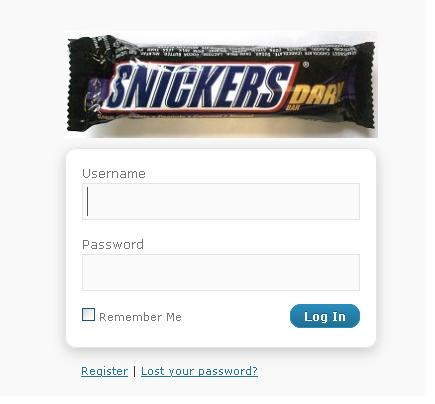
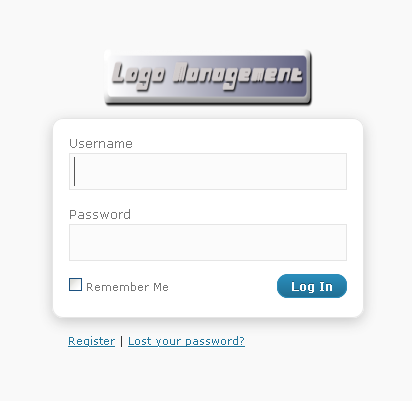
Adding new version 1.0
git-svn-id: https://plugins.svn.wordpress.org/logo-management/trunk@316083 b8457f37-d9ea-0310-8a92-e5e31aec5664

diff --git a/logo-management.php b/logo-management.php
@@ -3,12 +3,11 @@
 Plugin Name:  Logo Management
 Plugin URI: http://wordpress.org/extend/plugins/logo-management/
 Description: Replace WordPress default login/register page logo with custom one.
-Version: 1.0
+Version: 1.1
 Author: Rajasekaran M
 Author URI: http://wordpress.org/extend/plugins/logo-management/
 */
 
-define( 'LM_VERSION' , '1.0' );
 define( 'LM_DIR' , dirname( str_replace( '\\' , '/' , __FILE__ ) ) . "/" ) ;
 define( 'LM_FILE' , basename( LM_DIR ) );
 
@@ -33,32 +32,54 @@ register_deactivation_hook( __FILE__ , 'lm_deactivation' );
 
 /* Add options upon plugin activation */
 function lm_activation() {
-	add_option( 'lm_logos' , array('lm_logo.png') );
-	add_option( 'lm_logo_login', 'Yes' );
-	add_option( 'lm_logo_admin', 'Yes' );	
-	add_option( 'lm_logo', 'lm_logo.png');
-	add_option( 'lm_logo_path', LM_LOGO_URL . 'lm_logo.png');
+	$lm_settings = array( 
+						'lm_logo' 	=> 'lm_logo.png',
+						'lm_custom' => 'Yes',
+						'lm_width' 	=> '200',
+						'lm_height' => '60',
+						'lm_login'	=> 'Yes',
+						'lm_admin'	=> 'Yes',
+						'lm_path'	=> LM_URL . 'img/lm_logo.png',
+						'lm_default_logo'	=> LM_URL . 'img/lm_logo.png'
+						);
+	add_option( 'lm_settings', $lm_settings );
+	if( !get_option( 'lm_logos' ) )
+		add_option( 'lm_logos' , array('lm_logo.png') );
 }
 
 /* Delete options upon plugin deactivation */
 function lm_deactivation() {
-	delete_option( 'lm_logos' );
-	delete_option( 'lm_logo_login' );
-	delete_option( 'lm_logo_admin' );
-	delete_option( 'lm_logo' );
-	delete_option( 'lm_logo_path' );
+	delete_option( 'lm_settings' );
+	//delete_option( 'lm_logos' );
 }
 
-add_action ( 'admin_menu', 'lm_menus' );
+$lm = get_option( 'lm_settings' );
 
-function lm_menus() {
-	add_options_page( __('Logo Management', 'lm' ), __('Logo Management', 'lm' ) , 10, 'logo-management', 'logo_management');
+if ( !empty ( $_POST['lm_save_changes'] ) ) {
+	if( !empty($_POST['lm_custom']) ) $lm['lm_custom'] = $_POST['lm_custom'];
+	if( $_POST['lm_custom'] == 'Yes' ) {
+		if( !empty($_POST['lm_width']) ) $lm['lm_width'] = $_POST['lm_width'];
+		if( !empty($_POST['lm_height']) ) $lm['lm_height'] = $_POST['lm_height'];
+	}
+	if( !empty($_POST['lm_login']) ) $lm['lm_login'] = $_POST['lm_login'];
+	if( !empty($_POST['lm_admin']) ) $lm['lm_admin'] = $_POST['lm_admin'];
+	if( !empty($_POST['selected_logo']) ) {
+		$lm['lm_logo'] = $_POST['selected_logo'];
+		$lm['lm_path'] = LM_LOGO_URL . $_POST['selected_logo'];
+	}
+	update_option( 'lm_settings' , $lm );
 }
 
 if( !empty( $_FILES['lm_logo'] ) ) {
+	//echo "<pre>"; print_r($lm); echo "</pre>"; 
 	$handle = new upload($_FILES['lm_logo']);
   	if ($handle->uploaded) {
-      	$handle->process( LM_LOGO_DIR );
+  		if( $_POST['lm_custom'] == 'Yes' ) {
+  			$handle->image_resize = true;
+  			$handle->image_x = $lm['lm_width'];
+  			$handle->image_y = $lm['lm_height'];
+  		}
+  		$handle->process( LM_LOGO_DIR );
       	if ($handle->processed) {
       		$logos = get_option( 'lm_logos' );
 			array_push($logos, $handle->file_dst_name );
@@ -71,18 +92,13 @@ if( !empty( $_FILES['lm_logo'] ) ) {
   	}
 }
 
-if ( !empty ( $_POST['lm_save_changes'] ) ) {
-	update_option( 'lm_logo_login' , $_POST['lm_login'] );
-	update_option( 'lm_logo_admin' , $_POST['lm_admin'] );
-	update_option( 'lm_logo' , $_POST['selected_logo'] );
-	update_option( 'lm_logo_path' , LM_LOGO_URL . $_POST['selected_logo'] );
-}
-
 //add logo to admin if "yes" selected
-if( get_option( 'lm_logo_admin' ) == "Yes" ) {
+if( $lm['lm_admin'] == "Yes" ) { 
 	if ( is_admin() ) {
 		add_action( 'admin_head', 'lm_admin_include' );
-		function lm_admin_include() { ?>
+		function lm_admin_include() { 
+			$lm = get_option( 'lm_settings' );			
+			?>
 			<style>
 				#header-logo {
 					display: none;
@@ -106,7 +122,7 @@ if( get_option( 'lm_logo_admin' ) == "Yes" ) {
 				var myBody = document.getElementById("wphead").getElementsByTagName("a")[0];
 				myBody.innerHTML = "";
 				var img = document.createElement("img");
-				img.setAttribute("src","<?php echo get_option('lm_logo_path'); ?>");
+				img.setAttribute("src","<?php echo $lm['lm_path']; ?>");
 				img.setAttribute("id", "LM_Logo");				
 				myBody.appendChild(img);				
 				myBody.style.display = "block";
@@ -120,9 +136,11 @@ if( get_option( 'lm_logo_admin' ) == "Yes" ) {
 }
 
 //add logo to login if "yes" is selected
-if( get_option( 'lm_logo_login' ) == "Yes" ) {
+if( $lm['lm_login'] == "Yes" ) {
 	add_action( 'login_head', 'lm_login_include' );
-	function lm_login_include() { ?>
+	function lm_login_include() {
+		$lm = get_option( 'lm_settings' ); 
+		?>
 		<style>
 			#LM_Logo {
 				padding: 0 0 10px 7px;
@@ -131,6 +149,7 @@ if( get_option( 'lm_logo_login' ) == "Yes" ) {
 			}
 			#login h1 {
 				display: none;
+				text-align:center;
 			}
 		</style>
 		<script type="text/javascript">
@@ -140,7 +159,7 @@ if( get_option( 'lm_logo_login' ) == "Yes" ) {
 				var myBody = document.getElementById("login").getElementsByTagName("h1")[0];
 				myBody.innerHTML = "";
 				var img = document.createElement("img");
-				img.setAttribute("src","<?php echo get_option('lm_logo_path'); ?>");
+				img.setAttribute("src","<?php echo $lm['lm_path']; ?>");
 				img.setAttribute("id", "LM_Logo");				
 				myBody.appendChild(img);				
 				myBody.style.display = "block";
@@ -152,13 +171,34 @@ if( get_option( 'lm_logo_login' ) == "Yes" ) {
 	}
 }
 
+add_action ( 'admin_menu', 'lm_menus' );
+
+function lm_menus() {
+	add_options_page( __('Logo Management', 'lm' ), __('Logo Management', 'lm' ) , 10, 'logo-management', 'logo_management');
+}
+
 function logo_management() {
+	$lm = get_option( 'lm_settings' );
 	?>
 	<script type="text/javascript" src="<?php echo LM_URL; ?>js/jquery-1.3.2.js"></script>
 	<script type="text/javascript" src="<?php echo LM_URL; ?>js/thickbox-compressed.js"></script>
 	<link rel="stylesheet" href="<?php echo LM_URL; ?>css/thickbox.css" type="text/css" />
 	<link rel="stylesheet" href="<?php echo LM_URL; ?>css/lm-styles.css" type="text/css" />
 	<script type="text/javascript">
+	$(document).ready(function() {
+	    $("#lm_width,#lm_height").keydown(function(event) {
+	        // Allow only backspace and delete
+	        if ( event.keyCode == 46 || event.keyCode == 8 ) {
+	                // let it happen, don't do anything
+	        }
+	        else {
+	                // Ensure that it is a number and stop the keypress
+	                if (event.keyCode < 48 || event.keyCode > 57 ) {
+	                        event.preventDefault(); 
+	                }       
+	        }
+	    });
+	});		
 	function delete_logo(val) {
 		if( confirm('<?php echo __( "Are you sure want to delete this logo?" , 'lm' ); ?>') ) {
 			$.post("<?php echo get_option('siteurl'); ?>/wp-admin/admin-ajax.php", {action:"del_logo", val: val, "cookie": encodeURIComponent(document.cookie)}, function(str) {
@@ -169,65 +209,112 @@ function logo_management() {
 		}
 	}
 	function lm_validation() {
+		if( $('#lm_logo_type').val() == 'Custom' ) {
+			if( $('#lm_width').val() == '' ) {
+				alert('<?php echo __( 'Please enter max width.', 'lm' ); ?>');
+				$('#lm_width').focus();
+				return false;
+			}
+			if( $('#lm_height').val() == '' ) {
+				alert('<?php echo __( 'Please enter max height.', 'lm' ); ?>');
+				$('#lm_height').focus();
+				return false;
+			}
+		}
 		if( $('#lm_logo').val() != '' ) {
 			var ext = $('#lm_logo').val().split('.').pop().toLowerCase();
 			var allow = new Array('gif','png','jpg','jpeg');
 			if(jQuery.inArray(ext, allow) == -1) {
 				alert('<?php echo __( 'Please upload .jpg or .jpeg or .png or .gif files only.', 'lm' ); ?>');
 				return false;
-			} else {
-				return true;
 			}
 		}
+		return true;
 	}
 	</script>
 	<div id="lm_form" class=wrap>
 		<div id="icon-edit" class="icon32"><br></div>		
     	<h2><?php echo __( 'Logo Management', 'lm' ); ?></h2>
     	<form name="lm_upload_frm" action="<?php _e($_SERVER["REQUEST_URI"]); ?>" method="post" enctype="multipart/form-data" >
-	    	<table class="form-table" >
-				<tr valign="top">
-					<td width="46%"><label for="lm_logo"><?php echo __( 'Choose a file to upload', 'lm' ); ?></label></td>
-					<td><input type="file" name="lm_logo" id="lm_logo" /><img style="padding-left:10px;" src="<?php echo LM_URL; ?>img/refresh.gif" onClick="javascript:$('#lm_logo').val('');" /></td>
-				</tr>
-				<tr valign="top">
-					<td><label for="lm_login"><?php echo __( 'Would you like your logo to appear on the login page?', 'lm' ); ?></label></td>
-					<td>
-						<label><input name="lm_login" value="Yes" type="radio" <?php if( get_option( 'lm_logo_login' ) == 'Yes' ) echo 'checked = "checked"'; ?> > <?php echo __( 'Yes', 'lm' ); ?></label><br>
-						<label><input name="lm_login" value="No"  type="radio" <?php if( get_option( 'lm_logo_login' ) == 'No' ) echo 'checked = "checked"'; ?> > <?php echo __( 'No', 'lm' ); ?></label>
-					</td>
-				</tr>
-				<tr valign="top">
-					<td><label for="lm_admin"><?php echo __( 'Would you like your logo to appear on the admin pages?', 'lm' ); ?></label></td>
-					<td>
-						<label><input name="lm_admin" value="Yes" type="radio" <?php if( get_option( 'lm_logo_admin' ) == 'Yes' ) echo 'checked = "checked"'; ?> > <?php echo __( 'Yes', 'lm' ); ?></label><br>
-						<label><input name="lm_admin" value="No" type="radio" <?php if( get_option( 'lm_logo_admin' ) == 'No' ) echo 'checked = "checked"'; ?>> <?php echo __( 'No', 'lm' ); ?></label>
-					</td>
-				</tr>
-	    	</table>
-    		
+    		<h3><?php echo __( 'Settings', 'lm' ); ?></h3>
+    		<input type="hidden" id="lm_logo_type" value="<?php if( $lm['lm_custom'] == 'Yes' ) echo 'Custom'; else echo 'Default'; ?>" />
+			<table class="form-table">
+				<tbody>
+					<tr valign="top">
+						<th scope="row"><?php echo __( 'Do you want to customize your logo width and height?', 'lm' ); ?></th>
+						<td>
+							<label><input name="lm_custom" value="Yes" type="radio" <?php if( $lm['lm_custom'] == 'Yes' ) echo 'checked = "checked"'; ?> onClick="javascript:$('#lm_custom_toggle').show();$('#lm_logo_type').val('Custom');" > <?php echo __( 'Yes', 'lm' ); ?></label><br>
+							<fieldset id="lm_custom_toggle" style="display:<?php if( $lm['lm_custom'] == 'Yes' ) echo 'block'; else echo "none"; ?>">
+								<legend class="screen-reader-text"></legend>
+								<label for="lm_width"><?php echo __( 'Max Width', 'lm' ); ?></label>
+								<input name="lm_width" id="lm_width" value="<?php echo $lm['lm_width']; ?>" class="small-text" type="text" maxlength="4">
+								<label for="lm_height"><?php echo __( 'Max Height', 'lm' ); ?></label>
+								<input name="lm_height" id="lm_height" value="<?php echo $lm['lm_height']; ?>" class="small-text" type="text" maxlength="4">
+							</fieldset>
+							<label><input name="lm_custom" value="No" type="radio" <?php if( $lm['lm_custom'] == 'No' ) echo 'checked = "checked"'; ?> onClick="javascript:$('#lm_custom_toggle').hide();$('#lm_logo_type').val('Default');" > <?php echo __( 'No', 'lm' ); ?></label>
+							<br /><span class="description">If no, your uploaded logo will be displayed without resize.</span>
+							<br /><span class="description">Note: It will not affect your existing logos.</span>
+						</td>
+					</tr>
+					<tr valign="top">
+						<th scope="row"><?php echo __( 'Logo appear on login page?', 'lm' ); ?></th>
+						<td>
+							<label><input name="lm_login" value="Yes" type="radio" <?php if( $lm['lm_login'] == 'Yes' ) echo 'checked = "checked"'; ?> > <?php echo __( 'Yes', 'lm' ); ?></label><br>
+							<label><input name="lm_login" value="No"  type="radio" <?php if( $lm['lm_login'] == 'No' ) echo 'checked = "checked"'; ?> > <?php echo __( 'No', 'lm' ); ?></label>
+						</td>
+					</tr>
+					<tr valign="top">
+						<th scope="row"><?php echo __( 'Logo appear on admin pages?', 'lm' ); ?></th>
+						<td>
+							<label><input name="lm_admin" value="Yes" type="radio" <?php if( $lm['lm_admin'] == 'Yes' ) echo 'checked = "checked"'; ?> > <?php echo __( 'Yes', 'lm' ); ?></label><br>
+							<label><input name="lm_admin" value="No" type="radio" <?php if( $lm['lm_admin'] == 'No' ) echo 'checked = "checked"'; ?>> <?php echo __( 'No', 'lm' ); ?></label>
+						</td>
+					</tr>
+				</tbody>
+			</table>
+    		<h3><?php echo __( 'Uploading Logo', 'lm' ); ?></h3>
+    		<table class="form-table">
+				<tbody>
+					<tr valign="top">
+						<th scope="row"><?php echo __( 'Choose a file to upload', 'lm' ); ?></th>
+						<td>
+							<fieldset>
+								<legend class="screen-reader-text"><span><?php echo __( 'Choose a file to upload', 'lm' ); ?></span></legend>
+								<input type="file" name="lm_logo" id="lm_logo" /><img style="padding-left:10px;cursor:pointer;" src="<?php echo LM_URL; ?>img/refresh.gif" onClick="javascript:$('#lm_logo').val('');" />
+							</fieldset>
+						</td>
+					</tr>
+				</tbody>
+			</table>
+	    	<h3><?php echo __( 'Logos', 'lm' ); ?></h3>
     		<div class="navigation">
 				<ul class="thumbs">
 					<?php $logos = get_option( 'lm_logos' ); ?>
-					<?php $current_logo = get_option( 'lm_logo' ); ?>
-					<?php foreach ($logos as $logo) { ?>
-					<?php $selected = ( $current_logo == $logo ) ? 'checked = "checked"' : ''; ?>
-					<li id="logo_div_<?php echo $logo; ?>" >
-						<a href="<?php echo LM_LOGO_URL . $logo ; ?>" class="thickbox" style="padding: 2px; display: block; border: 1px solid #ccc;">					
-							<img src="<?php echo LM_URL; ?>includes/timthumb.php?src=/logos/<?php echo $logo; ?>&w=100&zc=0" alt="<?php echo __( 'Logo', 'lm' ); ?>" />
-						</a>
-						<div class="caption">
-							<ul id="options" class="imgmenu">
-								<li id="delete" class="delete" onClick="return delete_logo('<?php echo $logo; ?>');" ><img src="<?php echo LM_URL; ?>/img/delete_icon.png" border="0" title="<?php echo __( 'Delete', 'lm' ); ?>" alt="<?php echo __( 'Delete', 'lm' ); ?>" /></li>
-								<li id="preview" class="preview"><a href="<?php echo LM_LOGO_URL . $logo ; ?>" class="thickbox"><img src="<?php echo LM_URL; ?>/img/preview-icon.gif" title="<?php echo __( 'Preview', 'lm' ); ?>" alt="<?php echo __( 'Preview', 'lm' ); ?>"  /></a></li>
-								<li id="select" class="select"><input type="radio" name="selected_logo" value="<?php echo $logo; ?>" <?php echo $selected; ?> /></li>
-							</ul>
-						</div>
-					</li>
+					<?php $current_logo = $lm['lm_logo']; ?>
+					<?php if( !empty($logos) ) { ?>
+						<?php foreach ($logos as $logo) { ?>
+						<?php $selected = ( $current_logo == $logo ) ? 'checked = "checked"' : ''; ?>
+						<?php $delete_status = ( $current_logo == $logo ) ? 'style="display:none;"' : 'style="display:block;"'; ?>
+						<li id="logo_div_<?php echo $logo; ?>" >
+							<a href="<?php echo LM_LOGO_URL . $logo ; ?>" class="thickbox" style="padding: 2px; display: block; border: 1px solid #ccc;">					
+								<img src="<?php echo LM_URL; ?>includes/timthumb.php?src=/logos/<?php echo $logo; ?>&w=100&zc=0" alt="<?php echo __( 'Logo', 'lm' ); ?>" />
+							</a>
+							<div class="caption">
+								<ul id="options" class="imgmenu">
+									<li id="delete" class="delete" onClick="return delete_logo('<?php echo $logo; ?>');" <?php echo $delete_status; ?> ><img src="<?php echo LM_URL; ?>/img/delete_icon.png" border="0" title="<?php echo __( 'Delete', 'lm' ); ?>" alt="<?php echo __( 'Delete', 'lm' ); ?>" /></li>
+									<li id="preview" class="preview"><a href="<?php echo LM_LOGO_URL . $logo ; ?>" class="thickbox"><img src="<?php echo LM_URL; ?>/img/preview-icon.gif" title="<?php echo __( 'Preview', 'lm' ); ?>" alt="<?php echo __( 'Preview', 'lm' ); ?>"  /></a></li>
+									<li id="select" class="select"><input type="radio" name="selected_logo" value="<?php echo $logo; ?>" <?php echo $selected; ?> /></li>
+								</ul>
+							</div>
+						</li>
+						<?php } ?>
+					<?php } else { ?>
+						<b><font color="red"><?php echo __( 'No logos found.', 'lm' ); ?></font></b>
 					<?php } ?>
 				</ul>
 			</div>
 			<div style="clear:both;"></div>
+			<div style="height:30px;">&nbsp;</div>
 			<input type="submit" id="lm_save_changes" name="lm_save_changes" value="<?php _e('Save Changes', 'lm') ?>" class="button-primary action" onClick="return lm_validation();" /><br />
 		</form>
     </div>
